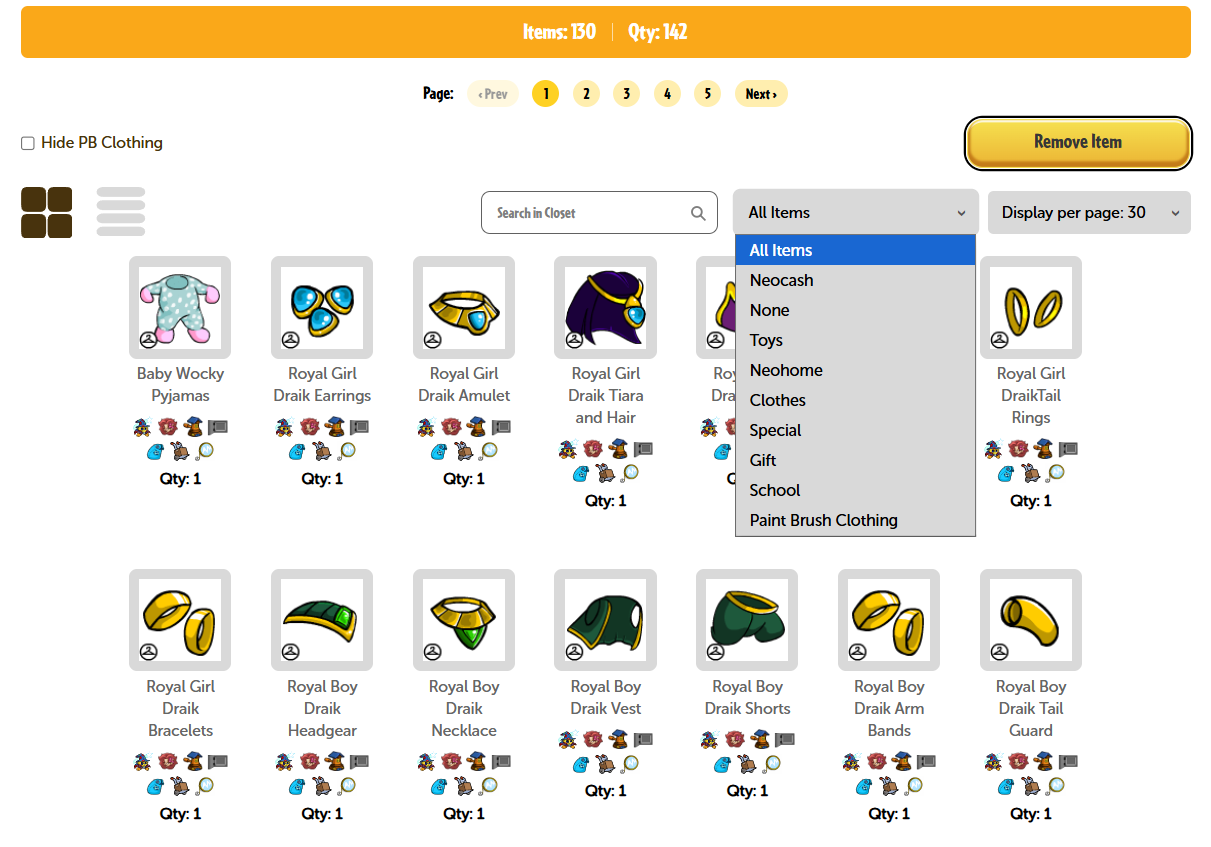
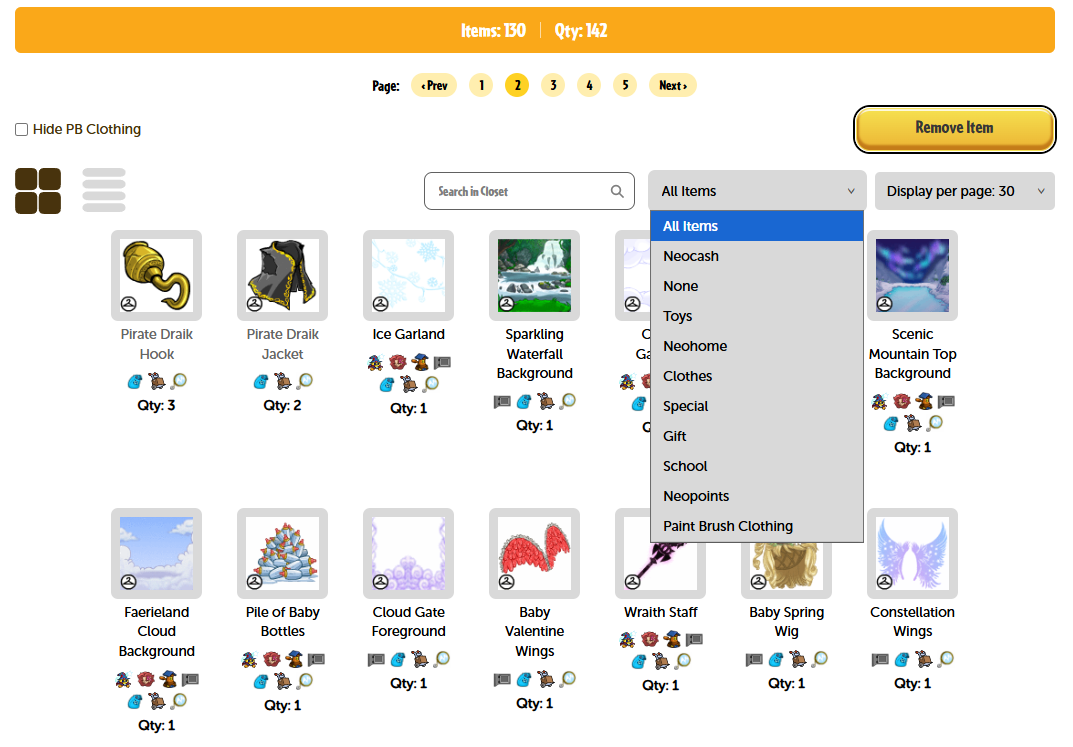
updates and fixes

diff --git a/Hero-Created/Neopets Closet Enhancements.user.js b/Hero-Created/Neopets Closet Enhancements.user.js
@@ -1,6 +1,6 @@
 // ==UserScript==
 // @name         Neopets Closet Enhancements
-// @version      2.6
+// @version      2.9
 // @description  Adds search helper links and small usability tweaks to the updated Closet page.
 // @author       Hero
 // @icon         https://images.neopets.com/items/foo_gmc_herohotdog.gif
@@ -24,11 +24,12 @@
     'use strict';
 
     const PAINT_BRUSH_FILTER_VALUE = 'hero-paint-brush-clothing';
-    const NEOPOINT_FILTER_VALUE = 'hero-neopoint-items';
+    const NEOPOINTS_FILTER_VALUE = 'hero-neopoints-items';
     const ALL_ITEMS_CATEGORY_VALUE = '';
     const PAINT_BRUSH_DESCRIPTION = 'This item is part of a deluxe paint brush set!';
     const STATE_HERO_FILTER = 'hero_closet_active_filter';
     const STATE_HIDE_PAINT_BRUSH = 'hero_closet_hide_paint_brush';
+    const HELPER_METADATA_WAIT_MS = 600;
 
     const SELECTORS = {
         app: '#closet_app',
@@ -50,12 +51,14 @@
     let observer = null;
     let scheduled = false;
     let internalMutation = false;
-    let activeHeroFilter = [PAINT_BRUSH_FILTER_VALUE, NEOPOINT_FILTER_VALUE].includes(localStorage.getItem(STATE_HERO_FILTER))
+    let activeHeroFilter = [PAINT_BRUSH_FILTER_VALUE, NEOPOINTS_FILTER_VALUE].includes(localStorage.getItem(STATE_HERO_FILTER))
         ? localStorage.getItem(STATE_HERO_FILTER)
         : '';
     let hidePaintBrushItems = localStorage.getItem(STATE_HIDE_PAINT_BRUSH) === '1';
     let paintBrushItemNames = new Set();
     let itemMetaByName = new Map();
+    let hasSeenClosetMetadata = false;
+    let originalFetchForMetadata = null;
 
     function addStyles() {
         if (document.getElementById('hero-closet-enhancements-style')) return;
@@ -203,6 +206,7 @@
     function rememberClosetItems(items) {
         if (!Array.isArray(items)) return;
 
+        hasSeenClosetMetadata = true;
         paintBrushItemNames = new Set(
             items
                 .filter(item => item?.is_paintbrush)
@@ -228,6 +232,32 @@
         } catch {
             return null;
         }
+    }
+
+    function getCurrentClosetPageUrl() {
+        const url = new URL('/np-templates/ajax/closet/get-items.php', location.origin);
+        const activePage = document.querySelector('.closet-pagination-btn.active')?.textContent?.trim() || '1';
+        const perPage = document.querySelector('.closet-dropdown--perpage')?.value || '30';
+        const search = document.querySelector('.closet-search-field')?.value || '';
+        const categoryDropdown = document.querySelector(SELECTORS.categoryDropdown);
+        const selectedHeroFilter = categoryDropdown?.selectedOptions?.[0]?.dataset.heroFilter;
+        const category = selectedHeroFilter ? ALL_ITEMS_CATEGORY_VALUE : (categoryDropdown?.value || '');
+
+        url.searchParams.set('page', activePage);
+        url.searchParams.set('per_page', perPage);
+        url.searchParams.set('search', search);
+        url.searchParams.set('category', category);
+        return url;
+    }
+
+    function fetchCurrentClosetMetadata() {
+        const fetcher = originalFetchForMetadata || window.fetch?.bind(window);
+        if (typeof fetcher !== 'function') return;
+
+        fetcher(getCurrentClosetPageUrl().href)
+            .then(response => response.clone().json())
+            .then(data => rememberClosetItems(data?.items))
+            .catch(() => {});
     }
 
     async function fetchAllClosetItems(baseUrl, perPage, originalFetch) {
@@ -284,15 +314,15 @@
     async function buildHeroClosetResponse(originalUrl, originalFetch) {
         const requestedUrl = getClosetAjaxUrl(originalUrl);
         const shouldShowPaintBrushOnly = activeHeroFilter === PAINT_BRUSH_FILTER_VALUE;
-        const shouldShowNeopointOnly = activeHeroFilter === NEOPOINT_FILTER_VALUE;
+        const shouldShowNeopointsOnly = activeHeroFilter === NEOPOINTS_FILTER_VALUE;
         const shouldHidePaintBrush = hidePaintBrushItems && !shouldShowPaintBrushOnly;
-        if (!requestedUrl || (!shouldShowPaintBrushOnly && !shouldShowNeopointOnly && !shouldHidePaintBrush)) return null;
+        if (!requestedUrl || (!shouldShowPaintBrushOnly && !shouldShowNeopointsOnly && !shouldHidePaintBrush)) return null;
 
         const page = Math.max(parseInt(requestedUrl.searchParams.get('page') || '1', 10) || 1, 1);
         const perPage = Math.max(parseInt(requestedUrl.searchParams.get('per_page') || '30', 10) || 30, 1);
 
         const baseUrl = new URL(requestedUrl.href);
-        if (shouldShowPaintBrushOnly || shouldShowNeopointOnly) {
+        if (shouldShowPaintBrushOnly || shouldShowNeopointsOnly) {
             baseUrl.searchParams.set('category', ALL_ITEMS_CATEGORY_VALUE);
         }
 
@@ -301,7 +331,7 @@
 
         if (shouldShowPaintBrushOnly) {
             filteredItems = filteredItems.filter(item => item?.is_paintbrush);
-        } else if (shouldShowNeopointOnly) {
+        } else if (shouldShowNeopointsOnly) {
             filteredItems = filteredItems.filter(item => item?.is_nc === false);
         }
 
@@ -315,6 +345,7 @@
     function watchClosetAjax() {
         const originalFetch = window.fetch;
         if (typeof originalFetch === 'function') {
+            originalFetchForMetadata = originalFetch.bind(window);
             window.fetch = function (...args) {
                 const requestUrl = String(args[0]?.url || args[0] || '');
 
@@ -357,7 +388,7 @@
         xhrProto.send = function (...args) {
             if (
                 typeof originalFetch === 'function' &&
-                (activeHeroFilter === PAINT_BRUSH_FILTER_VALUE || activeHeroFilter === NEOPOINT_FILTER_VALUE || hidePaintBrushItems) &&
+                (activeHeroFilter === PAINT_BRUSH_FILTER_VALUE || activeHeroFilter === NEOPOINTS_FILTER_VALUE || hidePaintBrushItems) &&
                 getClosetAjaxUrl(this.__heroClosetRequestUrl)
             ) {
                 buildHeroClosetResponse(this.__heroClosetRequestUrl, originalFetch)
@@ -513,20 +544,22 @@
         const dropdown = document.querySelector(SELECTORS.categoryDropdown);
         if (!dropdown) return;
 
-        if (!dropdown.querySelector(`option[data-hero-filter="${PAINT_BRUSH_FILTER_VALUE}"]`)) {
+        let paintBrushOption = dropdown.querySelector(`option[data-hero-filter="${PAINT_BRUSH_FILTER_VALUE}"]`);
+        if (!paintBrushOption) {
             const option = document.createElement('option');
             option.value = PAINT_BRUSH_FILTER_VALUE;
             option.dataset.heroFilter = PAINT_BRUSH_FILTER_VALUE;
             option.textContent = 'Paint Brush Clothing';
             dropdown.appendChild(option);
+            paintBrushOption = option;
         }
 
-        if (!dropdown.querySelector(`option[data-hero-filter="${NEOPOINT_FILTER_VALUE}"]`)) {
+        if (!dropdown.querySelector(`option[data-hero-filter="${NEOPOINTS_FILTER_VALUE}"]`)) {
             const option = document.createElement('option');
-            option.value = NEOPOINT_FILTER_VALUE;
-            option.dataset.heroFilter = NEOPOINT_FILTER_VALUE;
-            option.textContent = 'Neopoint';
-            dropdown.appendChild(option);
+            option.value = NEOPOINTS_FILTER_VALUE;
+            option.dataset.heroFilter = NEOPOINTS_FILTER_VALUE;
+            option.textContent = 'Neopoints';
+            paintBrushOption?.insertAdjacentElement('beforebegin', option) || dropdown.appendChild(option);
         }
 
         if (activeHeroFilter) {
@@ -595,7 +628,7 @@
         if (!dropdown) return;
 
         const selectedHeroFilter = dropdown.selectedOptions[0]?.dataset.heroFilter || '';
-        if ([PAINT_BRUSH_FILTER_VALUE, NEOPOINT_FILTER_VALUE].includes(selectedHeroFilter)) {
+        if ([PAINT_BRUSH_FILTER_VALUE, NEOPOINTS_FILTER_VALUE].includes(selectedHeroFilter)) {
             activeHeroFilter = selectedHeroFilter;
             localStorage.setItem(STATE_HERO_FILTER, selectedHeroFilter);
             setTimeout(() => scheduleEnhance(), 0);
@@ -719,7 +752,7 @@
                 const option = dropdown?.querySelector(`option[data-hero-filter="${activeHeroFilter}"]`);
                 if (dropdown && option) dropdown.value = activeHeroFilter;
             }
-            addSearchHelpers();
+            if (hasSeenClosetMetadata) addSearchHelpers();
             syncTopPagination();
             applyHeroFilter();
         });
@@ -751,6 +784,13 @@
         watchHidePaintBrushToggle();
         observeCloset();
         scheduleEnhance();
+        fetchCurrentClosetMetadata();
+        setTimeout(() => {
+            if (!hasSeenClosetMetadata) {
+                hasSeenClosetMetadata = true;
+                scheduleEnhance();
+            }
+        }, HELPER_METADATA_WAIT_MS);
     }
 
     if (document.readyState === 'loading') {
